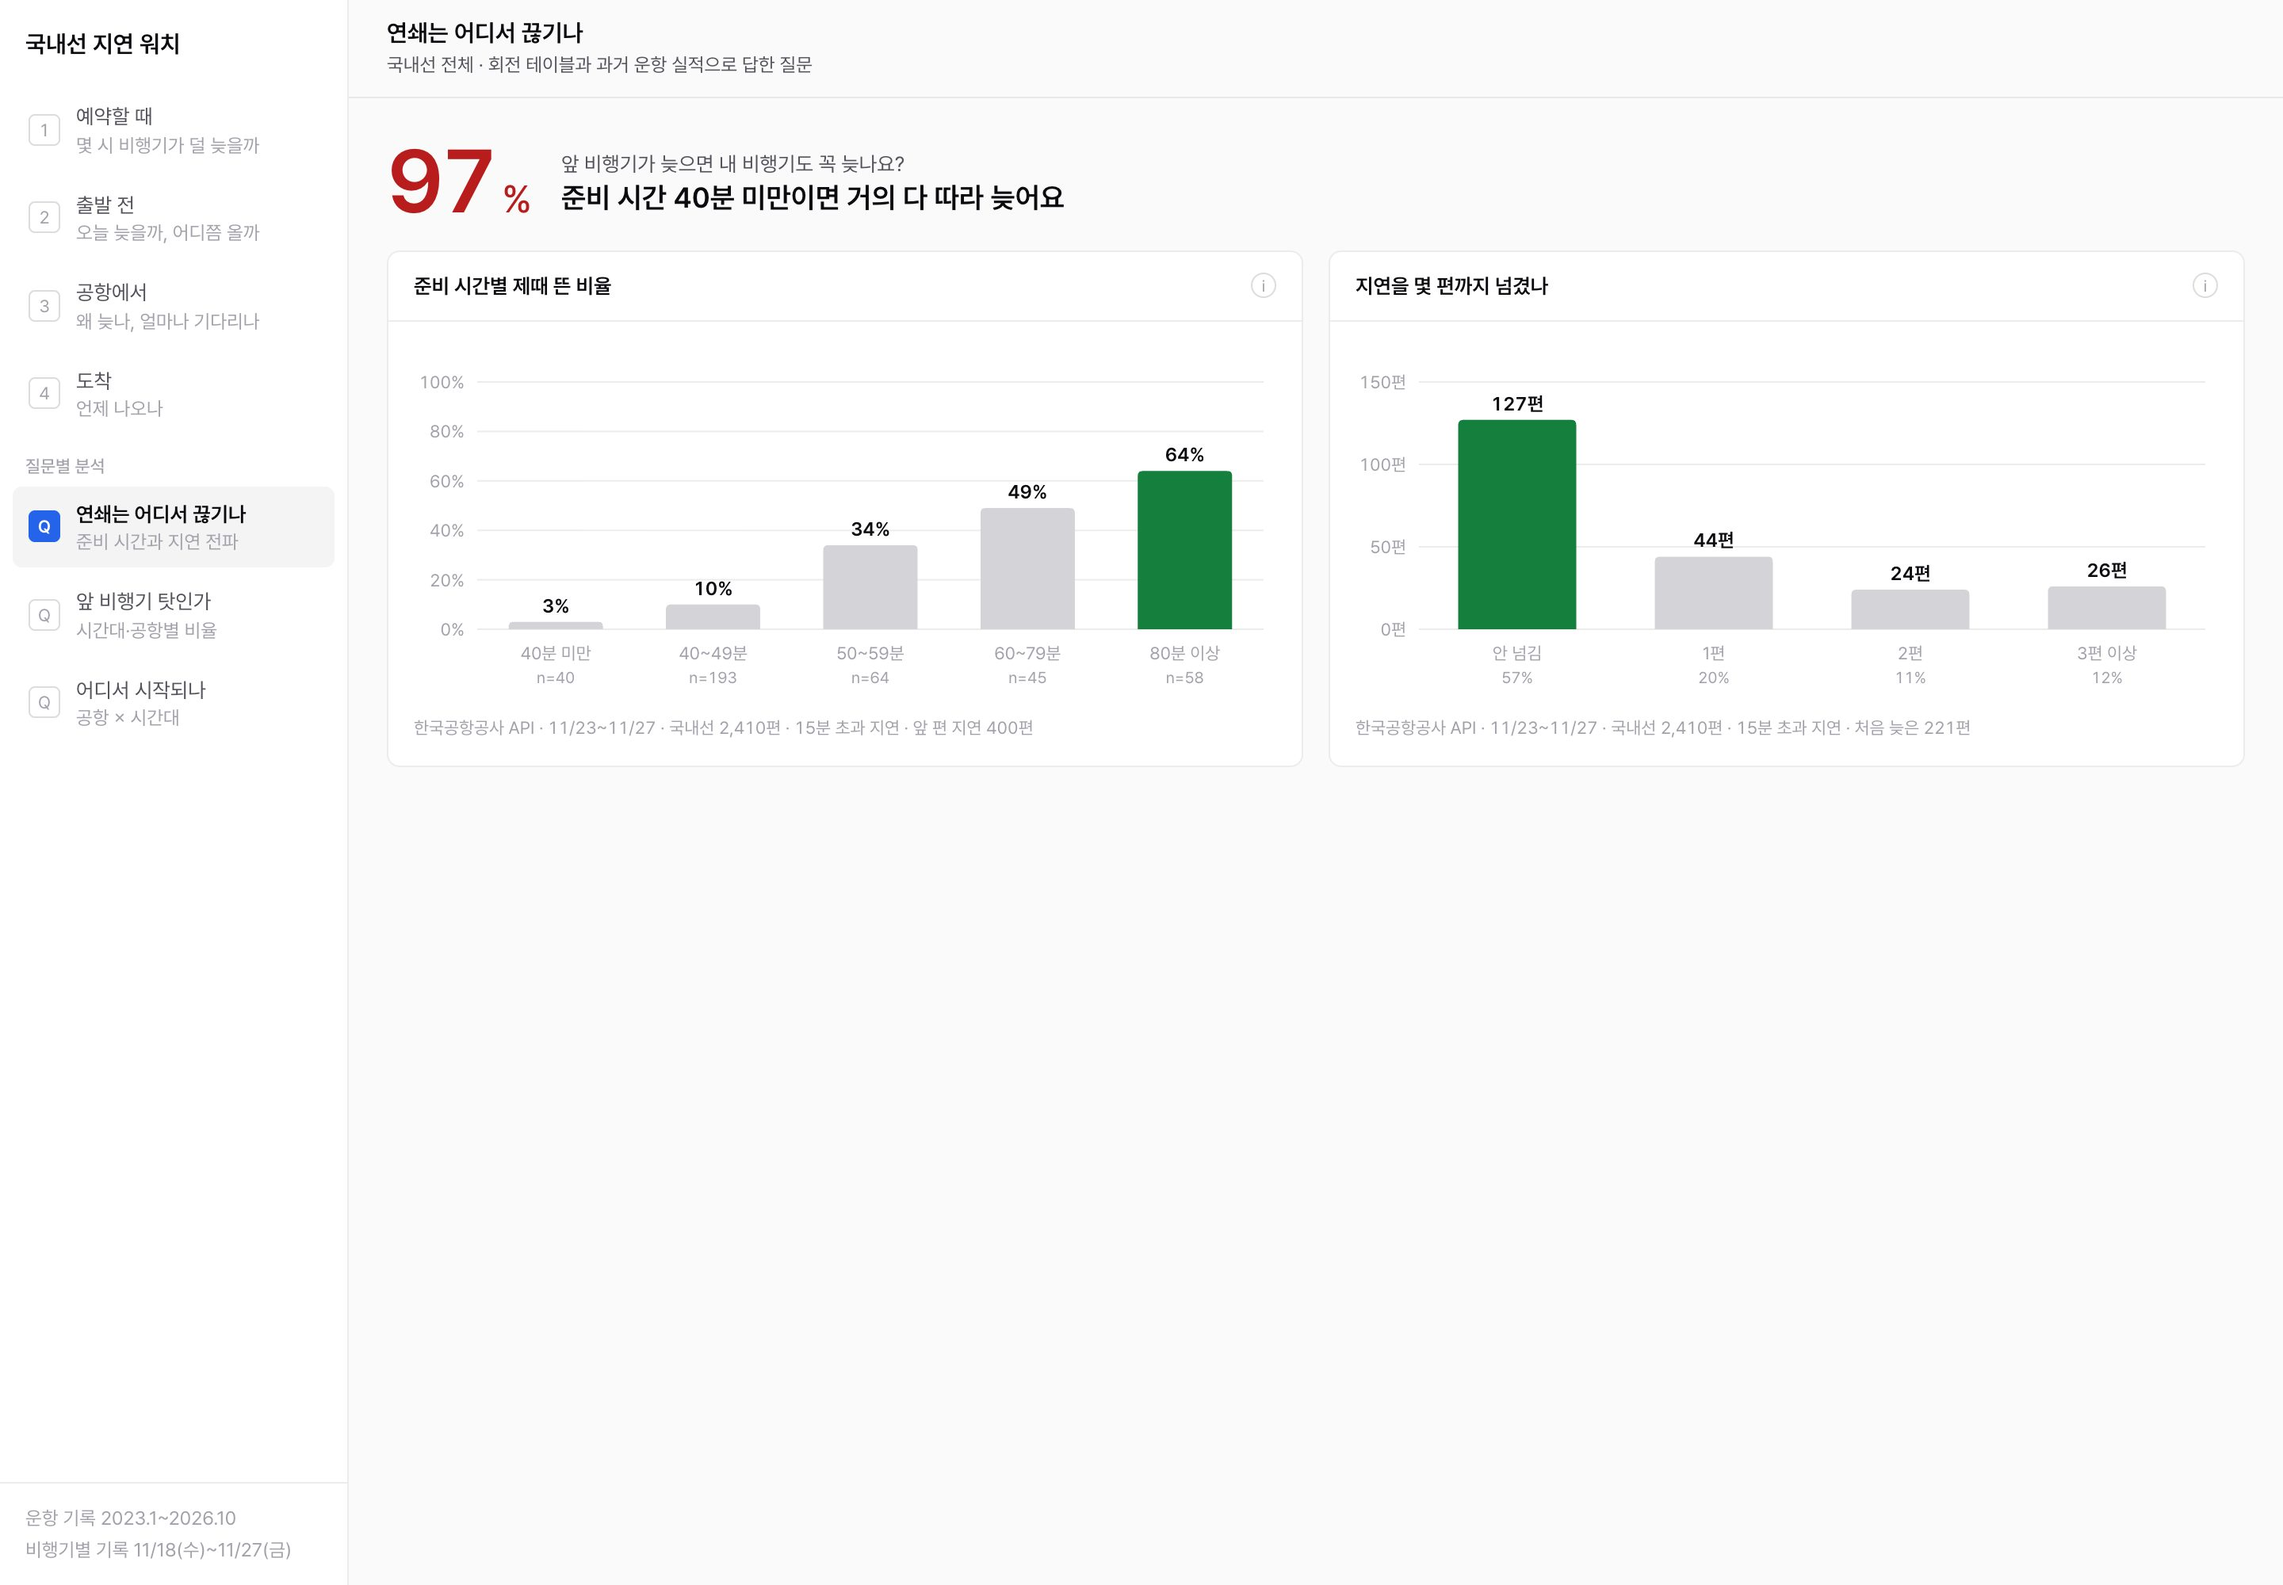
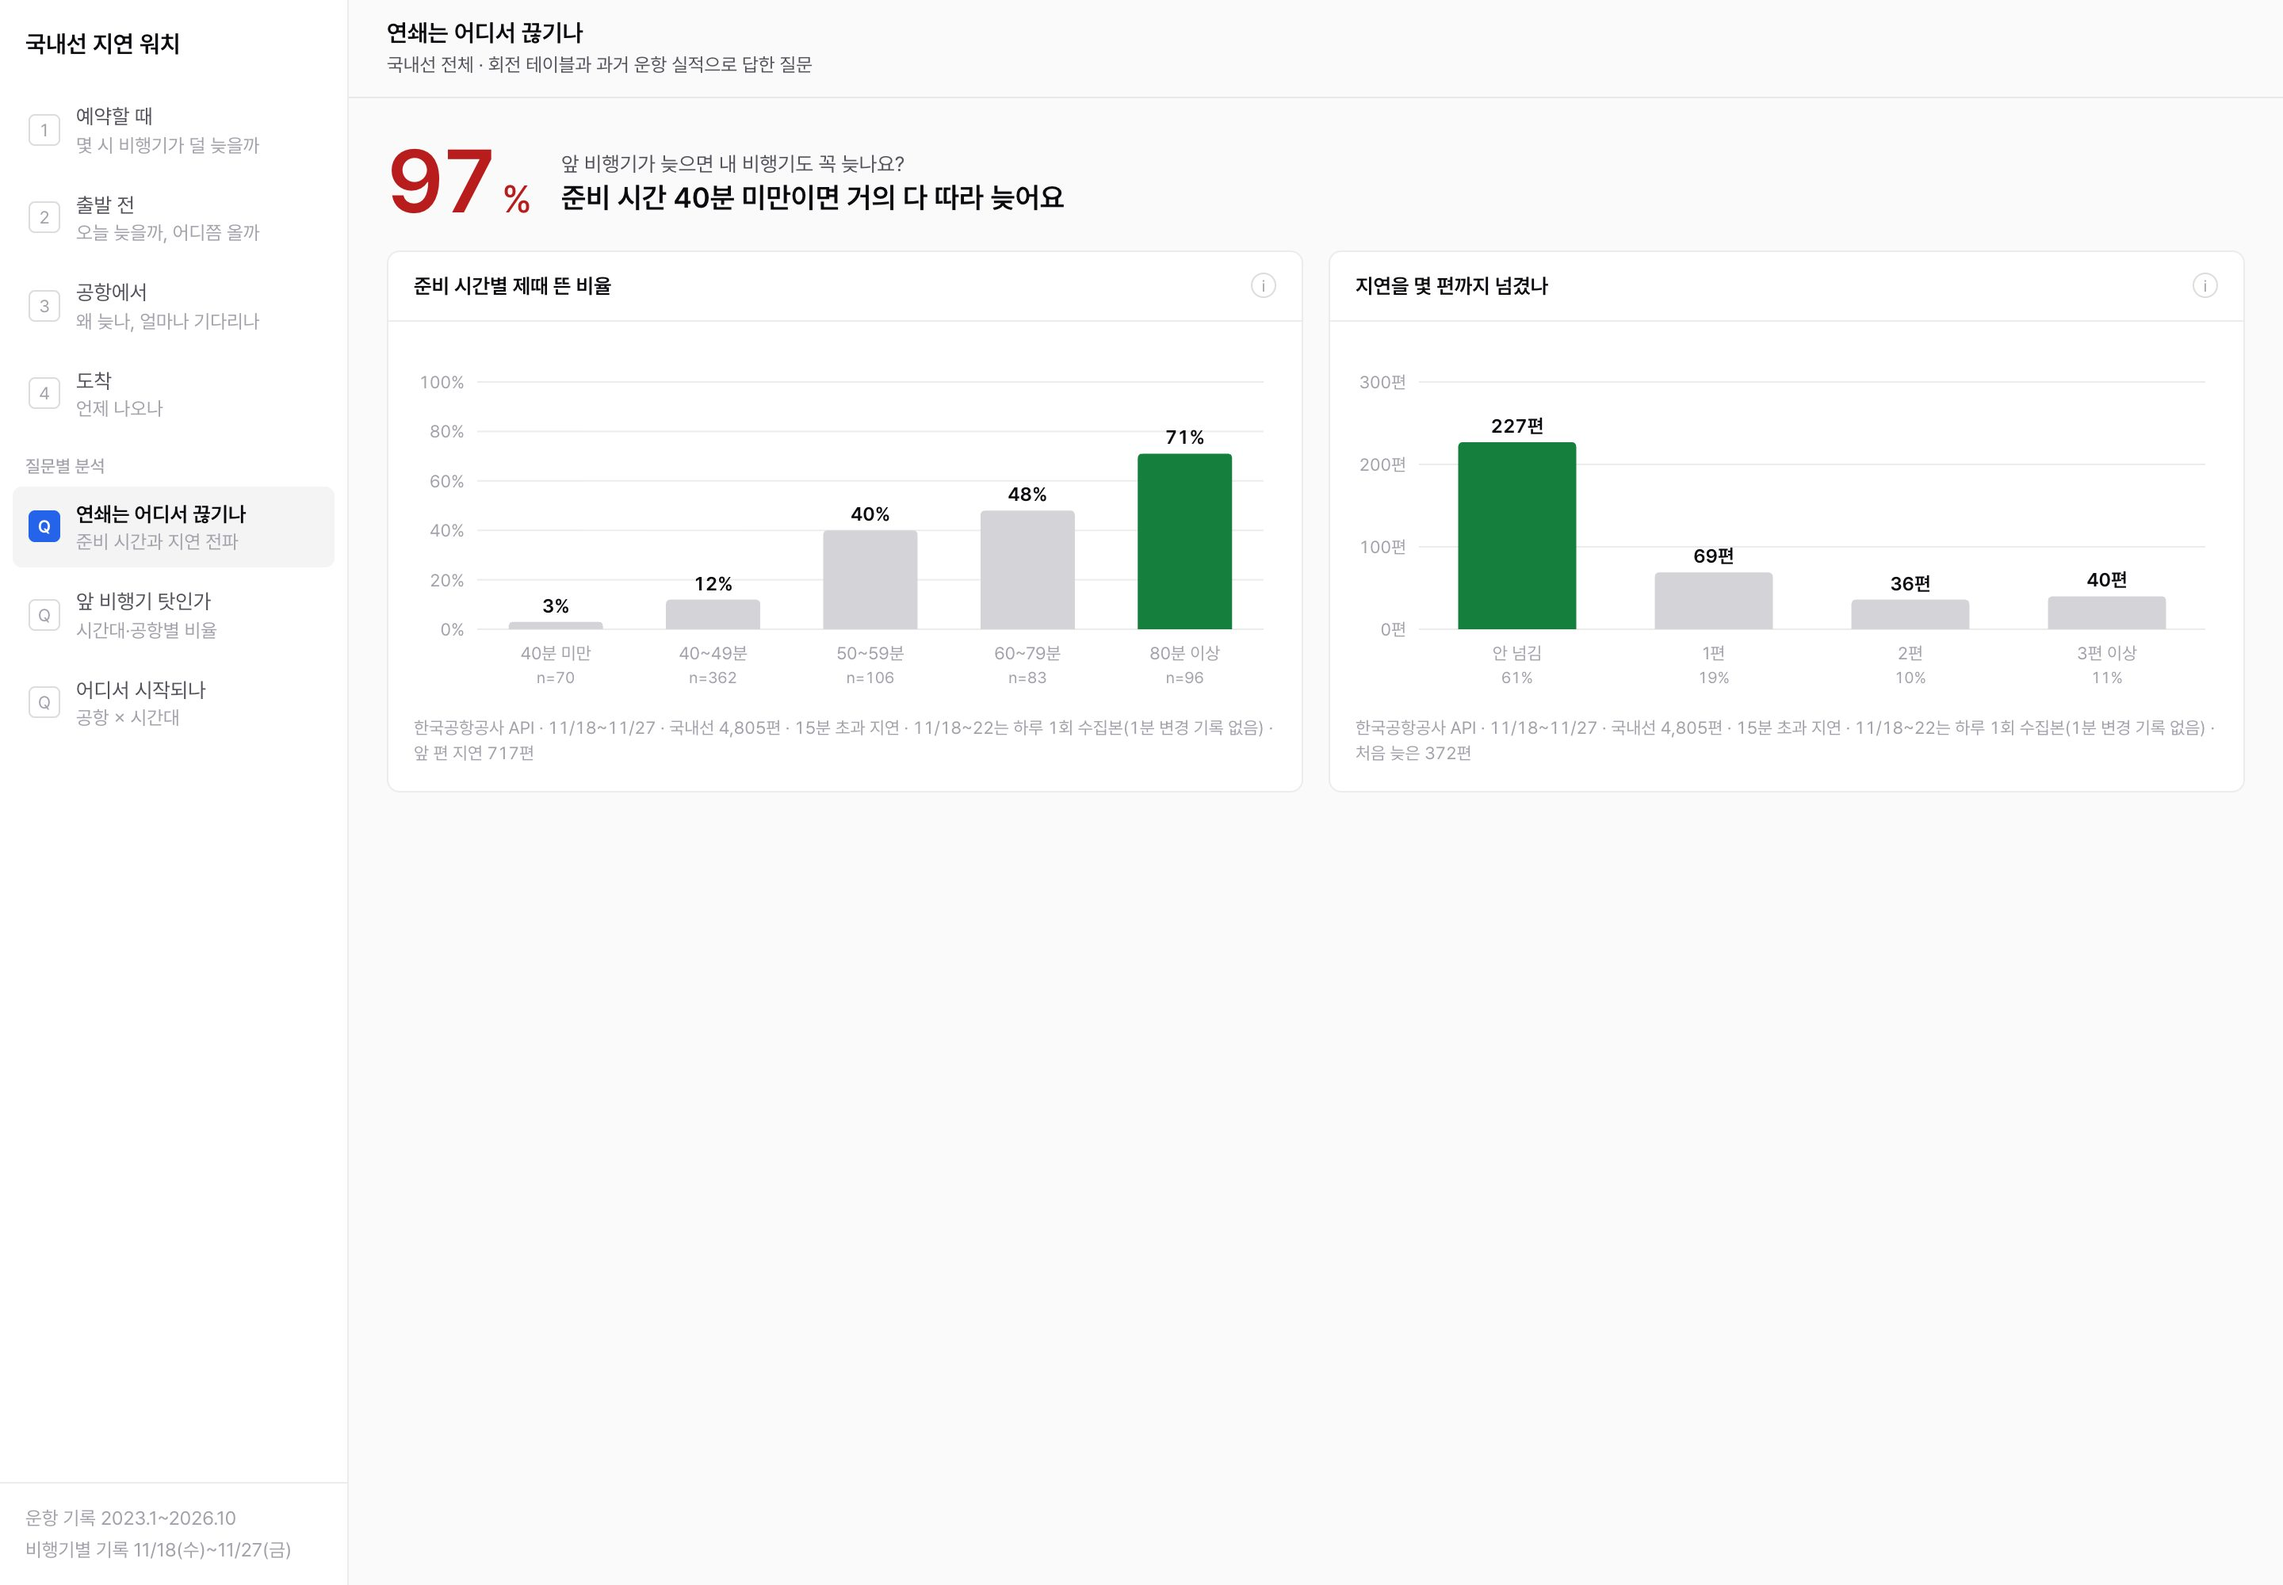
출발 전 '다른 날'을 어제·지난주 같은 요일 두 칸으로 줄이고, 질문 페이지 숫자를 11/18~27(4,805편) 기준으로 통일

diff --git a/web/components/FlightTabs.tsx b/web/components/FlightTabs.tsx
@@ -20,11 +20,12 @@ export function LeaveTab({ h, AP, ROT, DAYS, day, cur, goDay, SAT }: Ctx) {
   const legs = legsOf(ROT[day], r), i = legs.indexOf(r), prev = i > 0 ? legs[i - 1] : null;
   const carried = (r.carried_delay_min ?? 0) > 0 && ["propagated", "external"].includes(r.delay_origin_type);
   const on = (dd: string) => ROT[dd]?.find((x) => x.flight_no === r.flight_no && x.dep_airport === r.dep_airport);
-  const seen = DAYS.map(on).filter((x): x is Leg => !!x && x.dep_delay_gate_est_min != null);
-  const lateN = seen.filter((x) => (x.dep_delay_gate_est_min ?? 0) > 15).length;
+  // 같은 편명은 매일 같은 번호로 뜬다 → 어제와 지난주 같은 요일만 비교(요일마다 경향이 달라서)
   const cmp = (label: string, dd: string) => {
     const x = on(dd), m = x?.dep_delay_gate_est_min;
-    return <KpiTile key={label} label={`${label} · ${ROT[dd] ? dayLabel(dd) : "기록 없음"}`} value={!ROT[dd] ? "-" : !x ? "운항 없음" : delayWord(m)} tone={x ? delayTone(m) : undefined} />;
+    const ok = m != null;
+    return <KpiTile key={label} label={`${label} · ${dayLabel(dd)}`} value={ok ? `${Math.max(0, Math.round(m!))}` : "기록 없음"} unit={ok ? "분 늦음" : undefined}
+      tone={ok ? delayTone(m) : undefined} note={ok ? (m! <= 15 ? "제때" : "지연") : undefined} />;
   };
 
   return (
@@ -48,15 +49,9 @@ export function LeaveTab({ h, AP, ROT, DAYS, day, cur, goDay, SAT }: Ctx) {
           <SatMap key={r.flight_no + day} legs={prev ? [prev, r] : [r]} cur={r} AP={AP} SAT={SAT} />
           <Src>{KACS([day])} · 위치는 이착륙 시각으로 추정 · 위성 사진 Esri</Src>
         </Card>
-        <Card title={`${r.flight_no}, 다른 날은 어땠어요?`} right={<span>최근 {seen.length}번 운항 중 {lateN}번 늦음</span>}>
-          <div className="mb-4 grid grid-cols-2 gap-3">{cmp("하루 전", shift(day, -1))}{cmp("일주일 전 같은 요일", shift(day, -7))}</div>
-          <Table<string>
-            cols={[
-              { key: "d", label: "날짜", render: (dd) => dayLabel(dd) },
-              { key: "s", label: "출발", align: "right", render: (dd) => { const x = on(dd); return x ? <Badge tone={delayTone(x.dep_delay_gate_est_min)}>{delayWord(x.dep_delay_gate_est_min)}</Badge> : <span className="text-ink-3">운항 없음</span>; } },
-            ]}
-            rows={[...DAYS].reverse()} rowKey={(dd) => dd} selected={(dd) => dd === day} onRow={(dd) => on(dd) && goDay(dd, r.flight_no)} />
-          <Src>{KACS(DAYS)}</Src>
+        <Card title={`${r.flight_no} 어제 · 지난주 같은 요일`}>
+          <div className="grid grid-cols-2 gap-3">{cmp("어제", shift(day, -1))}{cmp("지난주 같은 요일", shift(day, -7))}</div>
+          <Src>{KACS(DAYS)} · 같은 편명·출발 공항 · 데이터가 없는 날은 기록 없음</Src>
         </Card>
       </div>
 

diff --git a/web/components/QuestionPages.tsx b/web/components/QuestionPages.tsx
@@ -11,7 +11,7 @@ const pct = (a: number, b: number) => (b ? Math.round((100 * a) / b) : 0);
 const BANDS = ["~08시", "09~11시", "12~14시", "15~17시", "18시~"];
 const SMALL = 20; // 이보다 적으면 "적음"
 const md = (s: string) => `${+s.slice(4, 6)}/${+s.slice(6)}`;
-const KAC = (q: Questions) => `한국공항공사 API · ${md(q.period.from)}~${md(q.period.to)} · 국내선 ${q.flights.toLocaleString()}편 · 15분 초과 지연`;
+const KAC = (q: Questions) => `한국공항공사 API · ${md(q.period.from)}~${md(q.period.to)} · 국내선 ${q.flights.toLocaleString()}편 · 15분 초과 지연 · 11/18~22는 하루 1회 수집본(1분 변경 기록 없음)`;
 const XY = ({ x, y, m }: { x: string; y: string; m?: string }) => <InfoTip><b className="font-medium text-ink">X</b> {x}<br /><b className="font-medium text-ink">Y</b> {y}{m && <><br />{m}</>}</InfoTip>;
 
 /** 열지도(QuickSight Heat map): 가장 큰 칸만 진하게, 나머지는 옅게 */
